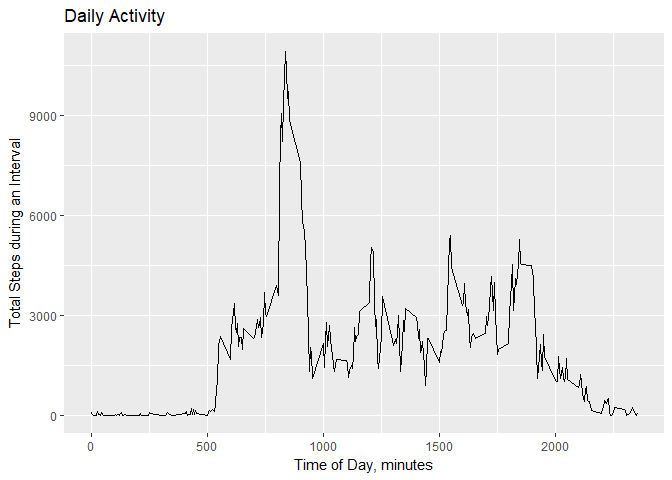
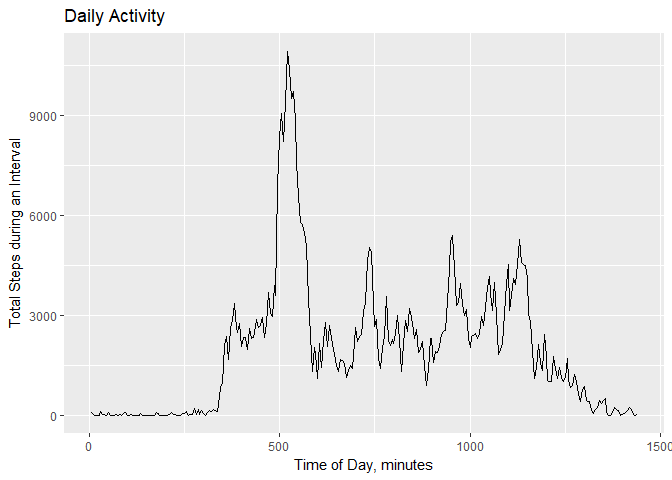
some progress
includes set options echo=TRUE

diff --git a/PA1_julieb.html b/PA1_julieb.html
@@ -168,25 +168,29 @@ summary(sumsdf)</code></pre>
 </div>
 <div id="what-is-the-average-daily-activity-pattern" class="section level2">
 <h2>What is the average daily activity pattern?</h2>
-<p>Sum the number of steps at each 5-minute interval across all days to see high activity periods.</p>
+<p>Sum the number of steps at each 5-minute interval across all days to see high activity periods. Make a time series plot of the 5-minute interval (x-axis) and the average number of steps taken, averaged across all days (y-axis).</p>
 <pre class="r"><code>#The steps per 5-minute interval are calculated.
 sm1&lt;- with(actdata, tapply(steps,interval,sum, na.rm=TRUE))
 intsdf&lt;-data.frame(sm1)
 names(intsdf)&lt;- c(&quot;sums&quot;)
-intsdf&lt;- mutate(intsdf,interval = as.numeric(rownames(intsdf)))</code></pre>
+intsdf&lt;- mutate(intsdf,minutes = 5*(1:nrow(intsdf)),interval = as.numeric(rownames(intsdf)))</code></pre>
 <pre><code>## Warning: package 'bindrcpp' was built under R version 3.5.1</code></pre>
-<pre class="r"><code>c&lt;-ggplot(intsdf, aes(interval,sums))
+<pre class="r"><code>c&lt;-ggplot(intsdf, aes(minutes,sums))
 d&lt;- c+ geom_line()
 d&lt;- d+ labs(x= &quot;Time of Day, minutes&quot;)
 d&lt;- d+ labs(y= &quot;Total Steps during an Interval&quot;)
 d&lt;- d+ labs(title= &quot;Daily Activity&quot;)
 print(d)</code></pre>
[1 lines of base64/hex data omitted]
-<pre class="r"><code>maxint&lt;-with(intsdf, intsdf[which(sums == max(sums)),])</code></pre>
-<p>The 5-minute interval where the maximum average number of step taken is {r maxint} (which starts at ).</p>
[1 lines of base64/hex data omitted]
+<pre class="r"><code>maxint&lt;-with(intsdf, intsdf[which(sums == max(sums)),2])</code></pre>
+<p>The 5-minute interval where the maximum average number of steps are taken is 520.</p>
 </div>
 <div id="imputing-missing-values" class="section level2">
 <h2>Imputing missing values</h2>
+<p>The presence of missing days may introduce bias into some calculations or summaries of the data.<br />
+1. Calculate and report the total number of missing values in the dataset (i.e. the total number of rows with NAs).</p>
+<pre class="r"><code>sumNAs &lt;-sum(is.na(actdata$steps))</code></pre>
+<p>Answer: The total number of missing step values is: 2304.</p>
 </div>
 <div id="are-there-differences-in-activity-patterns-between-weekdays-and-weekends" class="section level2">
 <h2>Are there differences in activity patterns between weekdays and weekends?</h2>

diff --git a/PA1_julieb.md b/PA1_julieb.md
@@ -78,13 +78,15 @@ summary(sumsdf)
 
 ## What is the average daily activity pattern?
 Sum the number of steps at each 5-minute interval across all days to see high activity periods.
+Make a time series plot of the 5-minute interval (x-axis)
+and the average number of steps taken, averaged across all days (y-axis).
 
 ```r
 #The steps per 5-minute interval are calculated.
 sm1<- with(actdata, tapply(steps,interval,sum, na.rm=TRUE))
 intsdf<-data.frame(sm1)
 names(intsdf)<- c("sums")
-intsdf<- mutate(intsdf,interval = as.numeric(rownames(intsdf)))
+intsdf<- mutate(intsdf,minutes = 5*(1:nrow(intsdf)),interval = as.numeric(rownames(intsdf)))
 ```
 
 ```
@@ -92,7 +94,7 @@ intsdf<- mutate(intsdf,interval = as.numeric(rownames(intsdf)))
 ```
 
 ```r
-c<-ggplot(intsdf, aes(interval,sums))
+c<-ggplot(intsdf, aes(minutes,sums))
 d<- c+ geom_line()
 d<- d+ labs(x= "Time of Day, minutes")
 d<- d+ labs(y= "Total Steps during an Interval")
@@ -103,12 +105,20 @@ print(d)
 ![](PA1_julieb_files/figure-html/intervals-1.png)<!-- -->
 
 ```r
-maxint<-with(intsdf, intsdf[which(sums == max(sums)),])
+maxint<-with(intsdf, intsdf[which(sums == max(sums)),2])
 ```
-The 5-minute interval where the maximum average number of step taken is {r maxint} (which starts at ).
+The 5-minute interval where the maximum average number of steps are taken is 520.
 
 ## Imputing missing values
+The presence of missing days may introduce bias into some
+calculations or summaries of the data.  
+1. Calculate and report the total number of missing values in the dataset
+(i.e. the total number of rows with NAs).
 
+```r
+sumNAs <-sum(is.na(actdata$steps))
+```
+Answer: The total number of missing step values is: 2304.
 
 
 ## Are there differences in activity patterns between weekdays and weekends?
